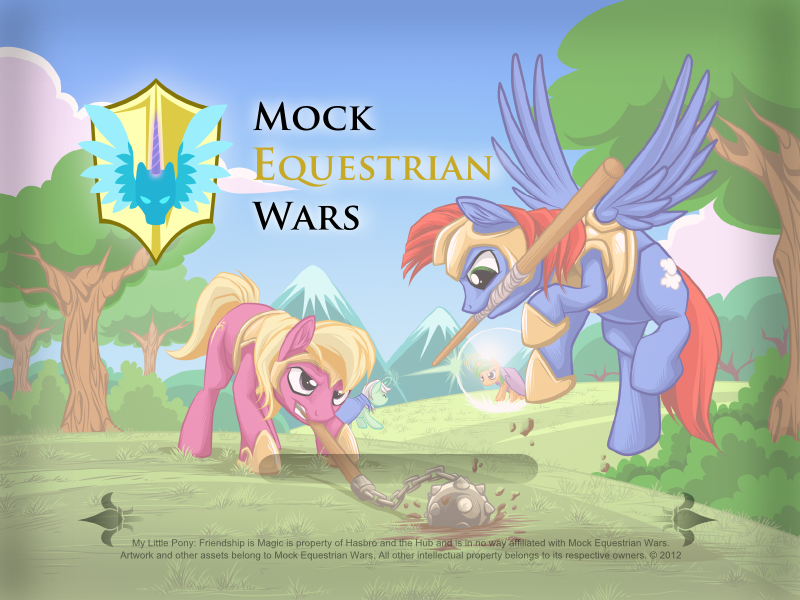
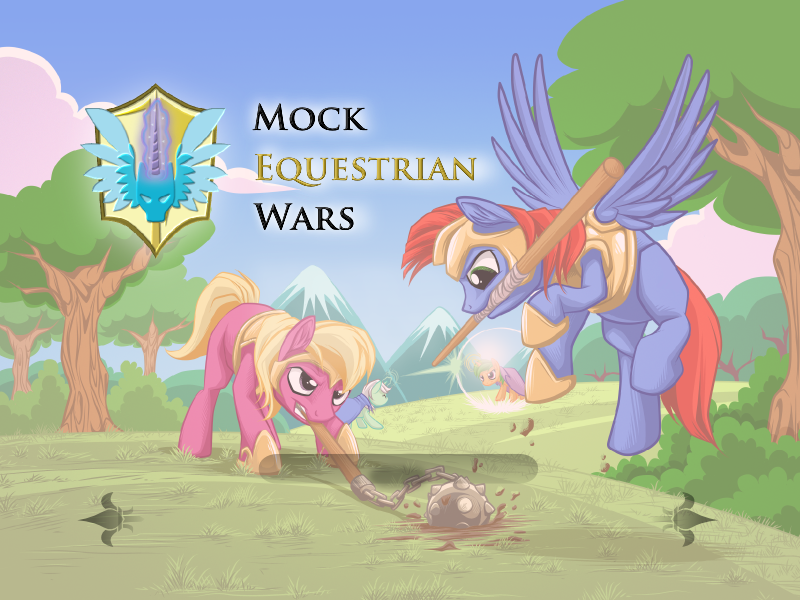
changed backgrounds
Changed out the loading baqckground and the login screen background

diff --git a/resources/app/Resources/Code/Include/Resources.js b/resources/app/Resources/Code/Include/Resources.js
@@ -28,7 +28,7 @@ $MEW.LoadResources = function(progress_cb) {
 	var SpriteImageNames = ['ARMOROPT.PNG', 'COLOURS.PNG', 'COLOURSBLACK.png', 'EYES.png', 'HAIRFEM.png', 'HAIRMALE.png', 'HATS.PNG', 'HORNS.PNG', 'TAILSFEM.png', 'TAILSMALE.png', 'WEAPONS.PNG', 'Wingsback.png', 'Wingsfront.png', "Chessfix.png", "snow_block3.png", "snow_block2.png"];
 
 	// Interface image names
-	var InterfaceImageNames = ['world_map_concept_mysticalpha-800.jpg', 'silouhetteavatar.png', 'anonavatar.png', 'anonavatar1.png', 'ParchmentWSV.png'];
+	var InterfaceImageNames = ['world_map_concept_mysticalpha-800.jpg', 'silouhetteavatar.png', 'anonavatar.png', 'anonavatar1.png', 'ParchmentWSV.png', 'small_v2_combined.png', 'mew_login_screen.png'];
 
 	var TileResourceURL = $MEW.RESOURCE_URL + "/resource/image/0/";
 	var SpriteResourceURL = $MEW.RESOURCE_URL + "/resource/image/1/";
@@ -455,6 +455,10 @@ $MEW.setupInterfaces = function() {
 
 	Crafty.sprite(800, 600, InterfaceResourceURL + 'world_map_concept_mysticalpha-800.jpg', {
 		WorldMapConcept: [0, 0]
+	});
+
+	Crafty.sprite(800, 600, InterfaceResourceURL + 'mew_login_screen.png', {
+		LoginScreenBackground: [0, 0]
 	});
 
 	// Set up windowskins

diff --git a/resources/app/Resources/Code/Include/SceneUser.js b/resources/app/Resources/Code/Include/SceneUser.js
@@ -314,7 +314,7 @@ Crafty.scene("User", function() {
         var h = 250,
             w = 500,
             x = ($MEW.WIDTH - w) / 2,
-            y = ($MEW.HEIGHT - h) / 2;
+            y = ($MEW.HEIGHT - h) / 2 + h / 4;
         
         // create the backgournd window
         $MEW.Scene.loginWindow = Crafty.e("MEWLoginWindow").MEWLoginWindow(x, y, w, h).setName("UserWelcomeWindow");
@@ -386,7 +386,7 @@ Crafty.scene("User", function() {
         .attr({x:0, y:0, z:10, alpha: 1.0,})
         .tween({alpha: 0.0}, 100);
             
-    $MEW.Scene.background = Crafty.e("2D, Canvas, WorldMapConcept, Tween")
+    $MEW.Scene.background = Crafty.e("2D, Canvas, LoginScreenBackground, Tween")
         .attr({x:0, y:0, z:10, alpha: 0.0,})
         .tween({alpha: 1.0}, 50)
         .bind("TweenEnd", onTweenEnd);
